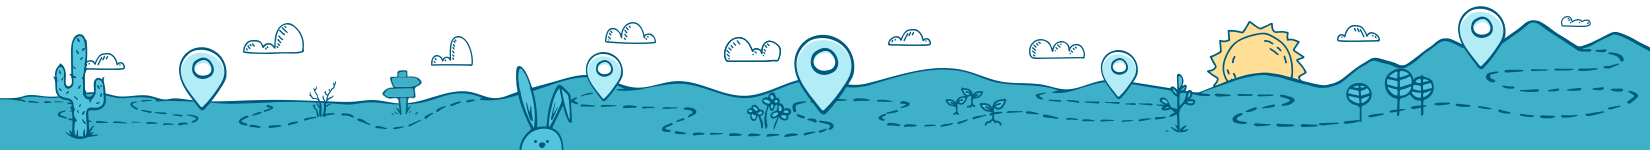
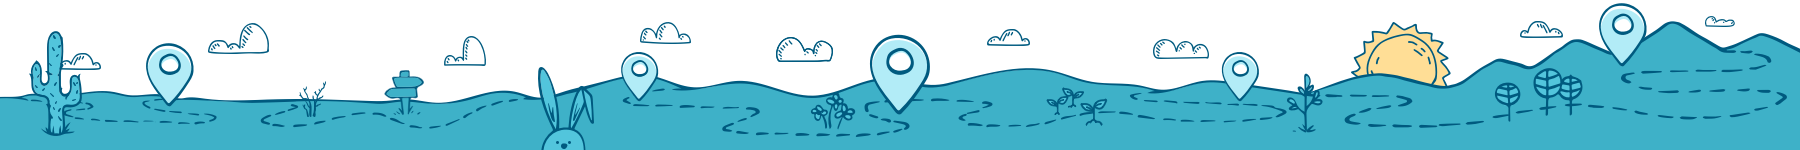
fix scroll position

diff --git a/src/containers/PathwayStageScreen/index.js b/src/containers/PathwayStageScreen/index.js
@@ -70,6 +70,14 @@ class PathwayStageScreen extends Component {
   }
 
   render() {
+    let leftMargin;
+
+    if (this.state.scrollPosition < 0) {
+      leftMargin = -30;
+    } else {
+      leftMargin = (this.state.scrollPosition / -1) -30;
+    }
+
     return (
       <Flex align="center" justify="center" value={1} style={styles.container}>
         <Image
@@ -77,7 +85,7 @@ class PathwayStageScreen extends Component {
           source={LANDSCAPE}
           style={[
             styles.footerImage,
-            { left: (this.state.scrollPosition / -1) - 50 },
+            { left: leftMargin },
           ]}
         />
         <Flex value={1} align="center" justify="center">
